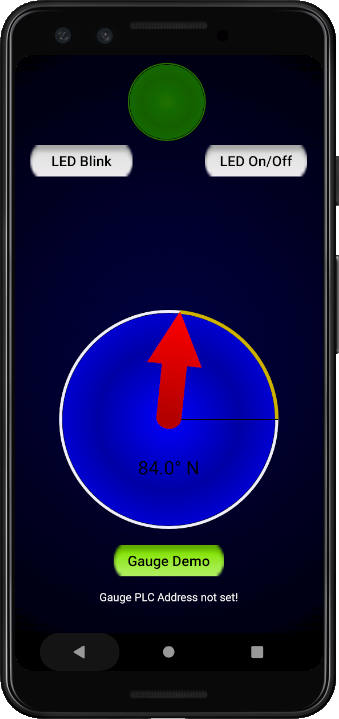
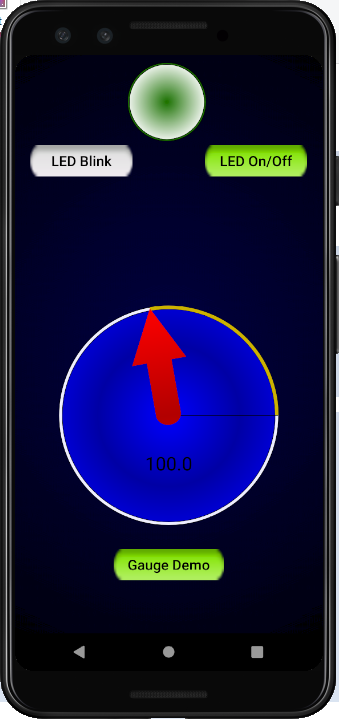
Re-design the GUI to allow multiple data types for the gauge.

diff --git a/app/src/main/java/com/e/phonetest/MainActivity.java b/app/src/main/java/com/e/phonetest/MainActivity.java
@@ -53,8 +53,8 @@ public class MainActivity extends AppCompatActivity implements AdapterView.OnIte
 
     boolean clearingTags;
 
-    EditText etABx, etAB1, etAB2, etAB3, etAB4, etAB5, tvABx, tvAB1, tvAB2, tvAB3, tvAB4, tvAB5;
-    Button btnGetCLGXTags, btnSettings, btnGauge, btnWriteCaller, btnWriteAB1, btnWriteAB2, btnWriteAB3, btnWriteAB4, btnWriteAB5;
+    EditText etABx, etAB1, etAB2, etAB3, etAB4, etABGaugeTag, tvABx, tvAB1, tvAB2, tvAB3, tvAB4;
+    Button btnGetCLGXTags, btnSettings, btnGauge, btnWriteCaller, btnWriteAB1, btnWriteAB2, btnWriteAB3, btnWriteAB4;
     TextView lblWriteMessage;
     ToggleButton tbtnAutoRead;
     Spinner spinCLGXTags;
@@ -91,7 +91,6 @@ public class MainActivity extends AppCompatActivity implements AdapterView.OnIte
         tvAB2 = findViewById(R.id.tvABTagValue2);
         tvAB3 = findViewById(R.id.tvABTagValue3);
         tvAB4 = findViewById(R.id.tvABTagValue4);
-        tvAB5 = findViewById(R.id.tvABTagValue5);
 
         textColor = tvAB1.getTextColors();
 
@@ -99,7 +98,6 @@ public class MainActivity extends AppCompatActivity implements AdapterView.OnIte
         btnWriteAB2 = findViewById(R.id.btnWriteABTag2);
         btnWriteAB3 = findViewById(R.id.btnWriteABTag3);
         btnWriteAB4 = findViewById(R.id.btnWriteABTag4);
-        btnWriteAB5 = findViewById(R.id.btnWriteABTag5);
 
         tcListener = new TextWatcher(){
             @Override
@@ -125,9 +123,6 @@ public class MainActivity extends AppCompatActivity implements AdapterView.OnIte
                         case "etABTag4":
                             tvAB4.setEnabled(textHasValue);
                             break;
-                        case "etABTag5":
-                            tvAB5.setEnabled(textHasValue);
-                            break;
                     }
 
                     callerName = "";
@@ -147,8 +142,8 @@ public class MainActivity extends AppCompatActivity implements AdapterView.OnIte
         etAB3.addTextChangedListener(tcListener);
         etAB4 = findViewById(R.id.etABTag4);
         etAB4.addTextChangedListener(tcListener);
-        etAB5 = findViewById(R.id.etABTag5);
-        etAB5.addTextChangedListener(tcListener);
+
+        etABGaugeTag = findViewById(R.id.etABGaugeTag);
 
         lblWriteMessage = findViewById(R.id.labelWriteMessage);
     }
@@ -240,8 +235,7 @@ public class MainActivity extends AppCompatActivity implements AdapterView.OnIte
             }
 
             if (TextUtils.isEmpty(etAB1.getText()) && TextUtils.isEmpty(etAB2.getText()) &&
-                    TextUtils.isEmpty(etAB3.getText()) && TextUtils.isEmpty(etAB4.getText()) &&
-                    TextUtils.isEmpty(etAB5.getText())){
+                    TextUtils.isEmpty(etAB3.getText()) && TextUtils.isEmpty(etAB4.getText())){
 
                 tbtnAutoRead.setText(tbtnAutoRead.getTextOff());
                 myReadABTask = null;
@@ -309,16 +303,6 @@ public class MainActivity extends AppCompatActivity implements AdapterView.OnIte
                 ABinfo.etABTag = etAB4;
                 ABinfo.etABTagValue = tvAB4;
                 ABinfo.btnWriteAB = btnWriteAB4;
-                ABAddressList.add(ABinfo);
-            }
-
-            if (!TextUtils.isEmpty(etAB5.getText())){
-                plcAddresses.add(etAB5.getText().toString());
-                callerIDs.add("tvABTagValue5");
-                ABAddressInfo ABinfo = new ABAddressInfo();
-                ABinfo.etABTag = etAB5;
-                ABinfo.etABTagValue = tvAB5;
-                ABinfo.btnWriteAB = btnWriteAB5;
                 ABAddressList.add(ABinfo);
             }
 
@@ -449,17 +433,6 @@ public class MainActivity extends AppCompatActivity implements AdapterView.OnIte
                     tvABx = tvAB4;
                 }
                 break;
-            case R.id.btnWriteABTag5:
-                if (TextUtils.isEmpty(etAB5.getText()) || TextUtils.isEmpty(tvAB5.getText())){
-                    myWriteABTask = null;
-                    return;
-                } else {
-                    params[2] = etAB5.getText().toString();
-                    etABx = etAB5;
-                    params[3] = tvAB5.getText().toString();
-                    tvABx = tvAB5;
-                }
-                break;
         }
 
         // Disable corresponding text boxes
@@ -505,10 +478,8 @@ public class MainActivity extends AppCompatActivity implements AdapterView.OnIte
             tvAB4.setEnabled(false);
         }
 
-        if (!(etAB5.getInputType() == InputType.TYPE_NULL) && !etAB5.getText().toString().equals("")){
-            etAB5.setText("");
-            tvAB5.setText("");
-            tvAB5.setEnabled(false);
+        if (!(etABGaugeTag.getInputType() == InputType.TYPE_NULL) && !etABGaugeTag.getText().toString().equals("")){
+            etABGaugeTag.setText("");
         }
 
         clearingTags = false;
@@ -532,6 +503,8 @@ public class MainActivity extends AppCompatActivity implements AdapterView.OnIte
 
     public void sendMessageGauge(View v)
     {
+        abGaugeAddress = etABGaugeTag.getText().toString();
+
         Intent intent = new Intent(MainActivity.this, GaugeActivity.class);
         startActivity(intent);
     }
@@ -590,9 +563,8 @@ public class MainActivity extends AppCompatActivity implements AdapterView.OnIte
             abProgram = values[1];
             abIPAddress = values[2];
             abPath = values[3];
-            abGaugeAddress = values[4];
-            abTimeout = values[5];
-            boolDisplay = values[6];
+            abTimeout = values[4];
+            boolDisplay = values[5];
 
             if (abCPU.equals("controllogix")){
                 btnGetCLGXTags.setEnabled(true);
@@ -623,9 +595,6 @@ public class MainActivity extends AppCompatActivity implements AdapterView.OnIte
                 break;
             case "etABTag4":
                 tvAB4.setText("");
-                break;
-            case "etABTag5":
-                tvAB5.setText("");
                 break;
         }
 

diff --git a/app/src/main/java/com/e/phonetest/AsyncGaugeTask.java b/app/src/main/java/com/e/phonetest/AsyncGaugeTask.java
@@ -13,21 +13,45 @@ public class AsyncGaugeTask extends AsyncTask<String, Void, String> {
     HashMap<String, Integer> dict = new HashMap<>();
     private Tag GaugeMaster = new Tag();
 
+    private int elem_size;
+
     @Override
     protected String doInBackground(String... params) {
         String gateway_path_cpu = params[0];
         String name = params[1];
-        String tag = "";
+        String dataType = params[2];
+        String abTag = "";
 
-        int timeout = Integer.parseInt(params[2]);
-        int tag_id = -1;
+        int timeout = Integer.parseInt(params[3]);
+        int tag_id;
 
         while (!isCancelled()){
             String tempValue = "";
 
             if (dict.size() != 1){
+                switch (dataType) {
+                    case "int8":
+                    case "uint8":
+                        elem_size = 1;
+                        break;
+                    case "int16":
+                    case "uint16":
+                        elem_size = 2;
+                        break;
+                    case "int32":
+                    case "uint32":
+                    case "float32":
+                        elem_size = 4;
+                        break;
+                    case "int64":
+                    case "uint64":
+                    case "float64":
+                        elem_size = 8;
+                        break;
+                }
+
                 String tagABString = "protocol=ab_eip&";
-                tagABString += gateway_path_cpu + "&elem_size=4&elem_count=1&name=" + name;
+                tagABString += gateway_path_cpu + "&elem_size=" + elem_size + "&elem_count=1&name=" + name;
 
                 tag_id = GaugeMaster.TagCreate(tagABString, timeout);
 
@@ -41,7 +65,7 @@ public class AsyncGaugeTask extends AsyncTask<String, Void, String> {
 
                 if (GaugeMaster.getStatus(tag_id) == 0){
                     dict.put(tagABString, tag_id);
-                    tag = tagABString;
+                    abTag = tagABString;
                 } else {
                     if (GaugeMaster.getStatus(tag_id) == 1)
                         tempValue = "pending";
@@ -52,14 +76,45 @@ public class AsyncGaugeTask extends AsyncTask<String, Void, String> {
                 }
             }
 
-            if (!tag.equals("")){
-                Integer id = dict.get(tag);
+            if (!abTag.equals("")){
+                Integer id = dict.get(abTag);
 
                 if (id != null){
                     if (GaugeMaster.getStatus(id) == 0){
                         GaugeMaster.read(id, timeout);
                         if (GaugeMaster.getStatus(id) == 0){
-                            tempValue = String.valueOf(GaugeMaster.getFloat32(tag_id,0));
+                            switch (dataType){
+                                case "int8":
+                                    tempValue = String.valueOf(GaugeMaster.getInt8(id,0));
+                                    break;
+                                case "uint8":
+                                    tempValue = String.valueOf(GaugeMaster.getUInt8(id,0));
+                                    break;
+                                case "int16":
+                                    tempValue = String.valueOf(GaugeMaster.getInt16(id,0));
+                                    break;
+                                case "uint16":
+                                    tempValue = String.valueOf(GaugeMaster.getUInt16(id,0));
+                                    break;
+                                case "int32":
+                                    tempValue = String.valueOf(GaugeMaster.getInt32(id,0));
+                                    break;
+                                case "uint32":
+                                    tempValue = String.valueOf(GaugeMaster.getUInt32(id,0));
+                                    break;
+                                case "int64":
+                                    tempValue = String.valueOf(GaugeMaster.getInt64(id,0));
+                                    break;
+                                case "uint64":
+                                    tempValue = String.valueOf(GaugeMaster.getUInt64(id,0));
+                                    break;
+                                case "float32":
+                                    tempValue = String.valueOf(GaugeMaster.getFloat32(id,0));
+                                    break;
+                                case "float64":
+                                    tempValue = String.valueOf(GaugeMaster.getFloat64(id,0));
+                                    break;
+                            }
                         } else {
                             if (GaugeMaster.getStatus(id) == 1)
                                 tempValue = "pending";
@@ -67,8 +122,8 @@ public class AsyncGaugeTask extends AsyncTask<String, Void, String> {
                                 tempValue = "err " + GaugeMaster.getStatus(id);
 
                             GaugeMaster.close(id);
-                            dict.remove(tag);
-                            tag = "";
+                            dict.remove(abTag);
+                            abTag = "";
                         }
 
                     } else {
@@ -78,8 +133,8 @@ public class AsyncGaugeTask extends AsyncTask<String, Void, String> {
                             tempValue = "err " + GaugeMaster.getStatus(id);
 
                         GaugeMaster.close(id);
-                        dict.remove(tag);
-                        tag = "";
+                        dict.remove(abTag);
+                        abTag = "";
                     }
                 }
             }

diff --git a/app/src/main/java/com/e/phonetest/PopUpAddressAB.java b/app/src/main/java/com/e/phonetest/PopUpAddressAB.java
@@ -56,7 +56,7 @@ public class PopUpAddressAB extends AppCompatActivity implements AdapterView.OnI
 
                     if (spinABDataType.getSelectedItem().toString().equals("bool") || spinABDataType.getSelectedItem().toString().equals("bool array") ||
                             spinABDataType.getSelectedItem().toString().equals("timer") || spinABDataType.getSelectedItem().toString().equals("counter") ||
-                            spinABDataType.getSelectedItem().toString().equals("control")){
+                            spinABDataType.getSelectedItem().toString().equals("control") || callerName.equals("etABGaugeTag")){
 
                         spinABBit.setEnabled(false);
                     } else {
@@ -81,7 +81,11 @@ public class PopUpAddressAB extends AppCompatActivity implements AdapterView.OnI
 
         switch(cpu){
             case "controllogix":
-                stringArray = getResources().getStringArray(R.array.ab_data_type);
+                if (callerName.equals("etABGaugeTag"))
+                    stringArray = getResources().getStringArray(R.array.gauge_data_type);
+                else
+                    stringArray = getResources().getStringArray(R.array.ab_data_type);
+
                 dataAdapter = new ArrayAdapter<>(this, android.R.layout.simple_spinner_item, stringArray);
                 dataAdapter.setDropDownViewResource(android.R.layout.simple_spinner_dropdown_item);
                 dataAdapter.notifyDataSetChanged();
@@ -93,7 +97,11 @@ public class PopUpAddressAB extends AppCompatActivity implements AdapterView.OnI
             case "plc5":
             case "micro800":
             case "njnx":
-                stringArray = getResources().getStringArray(R.array.ab_mlgx_data_type);
+                if (callerName.equals("etABGaugeTag"))
+                    stringArray = getResources().getStringArray(R.array.gauge_data_type);
+                else
+                    stringArray = getResources().getStringArray(R.array.ab_mlgx_data_type);
+
                 dataAdapter = new ArrayAdapter<>(this, android.R.layout.simple_spinner_item, stringArray);
                 dataAdapter.setDropDownViewResource(android.R.layout.simple_spinner_dropdown_item);
                 dataAdapter.notifyDataSetChanged();
@@ -171,6 +179,9 @@ public class PopUpAddressAB extends AppCompatActivity implements AdapterView.OnI
                         spinABBit.setEnabled(false);
                         break;
                 }
+
+                if (callerName.equals("etABGaugeTag"))
+                    spinABBit.setEnabled(false);
 
                 dataAdapter = new ArrayAdapter<>(this, android.R.layout.simple_spinner_item, stringArray);
                 dataAdapter.setDropDownViewResource(android.R.layout.simple_spinner_dropdown_item);

diff --git a/app/src/main/java/com/e/phonetest/SettingsActivity.java b/app/src/main/java/com/e/phonetest/SettingsActivity.java
@@ -14,7 +14,7 @@ public class SettingsActivity extends AppCompatActivity implements AdapterView.O
     SetPLCParameters setParameters = MainActivity.setPLCParameters;
 
     Spinner spinABCPU, spinBooleanDisplay;
-    EditText etABIP, etABProgram, etABPath, etABGaugeAddress, etABTimeout;
+    EditText etABIP, etABProgram, etABPath, etABTimeout;
 
     @Override
     protected void onCreate(Bundle savedInstanceState) {
@@ -32,7 +32,6 @@ public class SettingsActivity extends AppCompatActivity implements AdapterView.O
         etABIP = findViewById(R.id.etABIPAddress);
         etABProgram = findViewById(R.id.etABProgram);
         etABPath = findViewById(R.id.etABPath);
-        etABGaugeAddress = findViewById(R.id.etABGaugeAddress);
         etABTimeout = findViewById(R.id.etABTimeout);
 
         //Set current values to initial screen
@@ -47,7 +46,6 @@ public class SettingsActivity extends AppCompatActivity implements AdapterView.O
         etABIP.setText(MainActivity.abIPAddress);
         etABProgram.setText(MainActivity.abProgram);
         etABPath.setText(MainActivity.abPath);
-        etABGaugeAddress.setText(MainActivity.abGaugeAddress);
         etABTimeout.setText(MainActivity.abTimeout);
 
         for (int i = 0; i < spinBooleanDisplay.getCount(); i++){
@@ -103,15 +101,14 @@ public class SettingsActivity extends AppCompatActivity implements AdapterView.O
     {
         v.setBackground(ContextCompat.getDrawable(this, android.R.drawable.button_onoff_indicator_off));
 
-        String[] values = new String[7];
+        String[] values = new String[6];
 
         values[0] = spinABCPU.getSelectedItem().toString();
         values[1] = etABProgram.getText().toString();
         values[2] = etABIP.getText().toString();
         values[3] = etABPath.getText().toString();
-        values[4] = etABGaugeAddress.getText().toString();
-        values[5] = etABTimeout.getText().toString();
-        values[6] = spinBooleanDisplay.getSelectedItem().toString();
+        values[4] = etABTimeout.getText().toString();
+        values[5] = spinBooleanDisplay.getSelectedItem().toString();
 
         setParameters.UpdatePLCParameters(values);
 

diff --git a/app/src/main/java/com/e/phonetest/GaugeActivity.java b/app/src/main/java/com/e/phonetest/GaugeActivity.java
@@ -19,8 +19,8 @@ public class GaugeActivity extends AppCompatActivity implements GaugeTaskCallbac
     AsyncGaugeTask myGaugeTask = null;
 
     TextView tvGaugeAddress;
-    String txt = MainActivity.abGaugeAddress;
-    String[] params = new String[3];
+    String txt = "";
+    String[] params = new String[4];
     AngleIndicator ai1;
     LEDLight led1;
 
@@ -50,7 +50,7 @@ public class GaugeActivity extends AppCompatActivity implements GaugeTaskCallbac
         textColor = tvGaugeAddress.getTextColors();
 
         if (MainActivity.abGaugeAddress.equals("")){
-            txt = "Gauge PLC Address not set!";
+            txt = "";
             tvGaugeAddress.setText(txt);
         }
         else {
@@ -78,8 +78,9 @@ public class GaugeActivity extends AppCompatActivity implements GaugeTaskCallbac
                 }
 
                 params[0] = "gateway=" + ipaddress + "&path=" + path + "&cpu=" + cpu;
-                params[1] = txt;
-                params[2] = timeout;
+                params[1] = txt.substring(0, txt.indexOf(";"));
+                params[2] = txt.substring(txt.indexOf(";") + 2);
+                params[3] = timeout;
 
                 myGaugeTask.executeOnExecutor(AsyncTask.THREAD_POOL_EXECUTOR, params);
             }

diff --git a/README.md b/README.md
@@ -32,7 +32,7 @@ See [this link](https://github.com/libplctag/libplctag4android/issues/1) for ins
 - The "Write" buttons are only functional when enabled AND tag is present AND value to write is present.
 - The Custom String Length has to be specified when the "custom string" data type is selected.
 - The default PLC values are set in the MainActivity.java file (variables: abCPU, abIPAddress, abPath, abProgram, abTimeout, boolDisplay) and can be changed to match any specific setup.
-- The "Gauge" screen is to demo [AndroidUserControls](https://github.com/GitHubDragonFly/AndroidUserControls) but does allow setting the PLC Tag for the gauge itself (which should be of the float32 type).
+- The "Gauge" screen is to demo [AndroidUserControls](https://github.com/GitHubDragonFly/AndroidUserControls) but does allow setting the PLC Tag for the gauge itself (supports multiple data types).
 - Modbus functionality of the libplctag library is not included in this app.
 
 There might be bugs in the app. Not everything could be tested by me, since I don't have access to all the different PLCs supported by the libplctag library.
